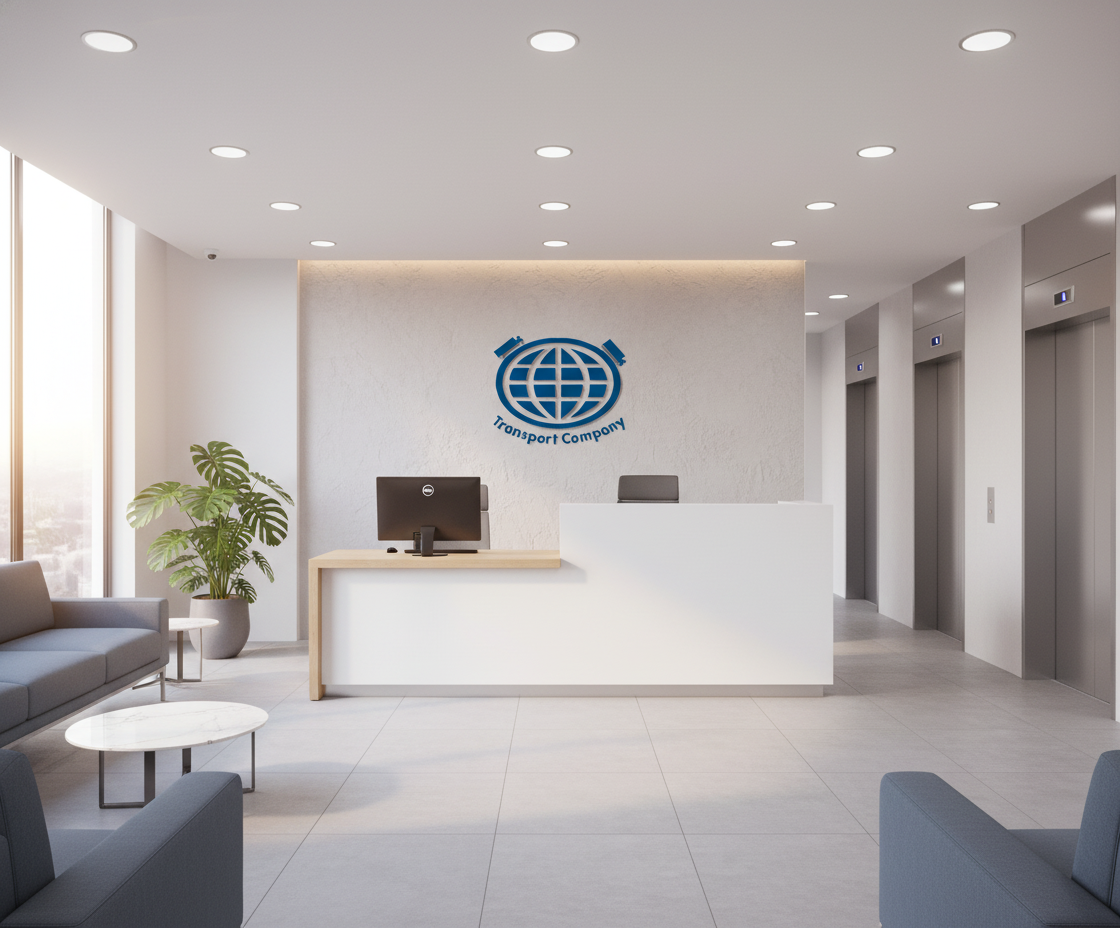
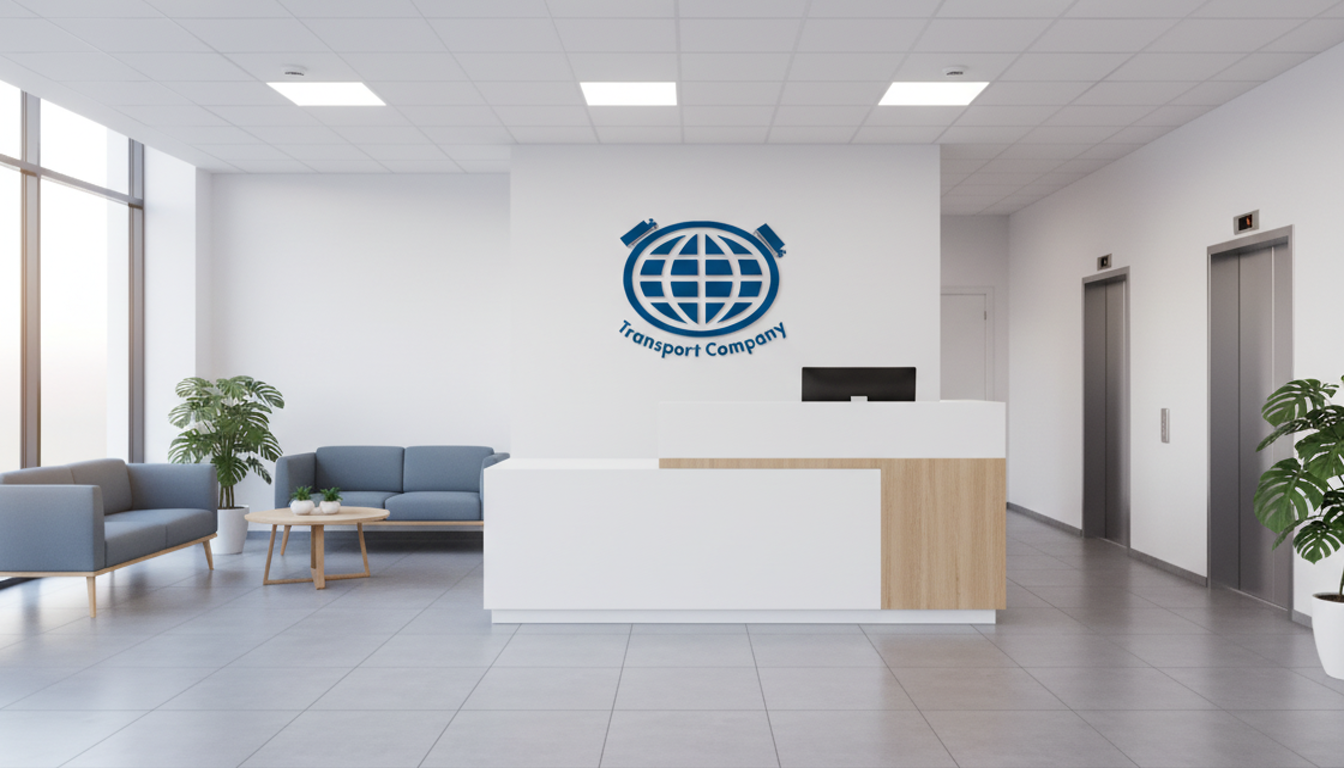
fix(lobby): 他フロアと同じ 1344x768 (16:9) に統一
- 生成画像を ffmpeg で center-crop して 1344x768 化 (gen scriptに自動化追加)
- DB: floors.lobby world_w/world_h を 1344x768 に戻す, entry_x/y も再計算
- 葵 LOBBY_BOT_POS を新アスペクトに合わせて (744, 519) へスケール変換
- LOBBY_COUNTER_TOP_Y クリップを 465 に調整
- FIG_H ロビー時を 288→240 に戻す (新アスペクトで視覚的に1.2倍維持)
- 工事中バナーの y を 720 に再配置

diff --git a/public/index.html b/public/index.html
@@ -2570,8 +2570,8 @@ function render() {
 
   // 1Fロビー (一人称視点モード) — 葵だけ受付に固定、一般ユーザーは自由に移動可
   const isLobbyView = currentFloor && currentFloor.code === 'lobby';
-  const LOBBY_BOT_POS = { x: 620, y: 575 };  // 葵: 受付カウンター背後 (5mm上+1cm右)
-  const LOBBY_COUNTER_TOP_Y = 530;            // 受付カウンター上端 (葵の見える比率を維持)
+  const LOBBY_BOT_POS = { x: 744, y: 519 };  // 葵: 受付カウンター背後 (1344×768フロアで再計算)
+  const LOBBY_COUNTER_TOP_Y = 465;            // 受付カウンター上端 (この線でクリップ)
 
   // 補間: targets → users[uid].cx/cy に近づける (ease-out、ゴール付近スナップで発振防止)
   for (const uid in targets) {
@@ -2620,7 +2620,7 @@ function render() {
       const wrapR = wrap ? wrap.getBoundingClientRect() : { left: 0, top: 0 };
       // 画面中央水平、カウンター下のフロア部分(world y≈790)に配置
       const bannerWorldX = WORLD_W / 2;
-      const bannerWorldY = 790;
+      const bannerWorldY = 720;
       const screenX = (r.left - wrapR.left) + ox + bannerWorldX * viewScale;
       const screenY = (r.top - wrapR.top) + oy + bannerWorldY * viewScale;
       cbn.style.left = screenX + 'px';
@@ -2868,8 +2868,8 @@ function drawFloorEntrance(x, y, floorCode) {
 
 // 受付AI 葵: 立ち姿描画 (大理石ロビーに合うよう透過+影+名札)
 function drawConciergeStanding(u) {
-  // ロビー時は 1.2倍 大きめ (288) でカウンターに堂々と立つ感じ、他フロア時は従来 210
-  const FIG_H = (currentFloor && currentFloor.code === 'lobby') ? 288 : 210;
+  // ロビー時は 240 (1344×768フロアでも視覚的に1.2倍相当に見える適正サイズ)、他フロア時は従来 210
+  const FIG_H = (currentFloor && currentFloor.code === 'lobby') ? 240 : 210;
   const aspect = conciergeFull.w / conciergeFull.h;
   const FIG_W = Math.round(FIG_H * aspect);
   // shake 演出
@@ -2887,7 +2887,7 @@ function drawConciergeStanding(u) {
   // 1Fロビー: 受付カウンター下端より下を非表示 (奥に立っているように見せる)
   if (currentFloor && currentFloor.code === 'lobby') {
     ctx.beginPath();
-    ctx.rect(0, 0, WORLD_W, 530);  // カウンター上端まで描画
+    ctx.rect(0, 0, WORLD_W, 465);  // カウンター上端まで描画 (1344×768用)
     ctx.clip();
   }
   // 足元の楕円影 (ロビーではクリップで自動的に隠れる)

diff --git a/server/scripts/gen_lobby_image.js b/server/scripts/gen_lobby_image.js
@@ -19,7 +19,8 @@ const prompt = `参考画像はスタンダード運輸グループ (Standard Tr
 
 【視点・構図】
 - 玄関を入って受付に向かう人間の目線(身長170cm程度の視点)
-- 横長 16:9 の写真リアル風 (1344×768 推奨、最低1024×576)
+- **必ず 16:9 横長アスペクト比** (1344×768 px、横が縦の約1.75倍) — これは絶対条件
+- 写真リアル風
 - 中央〜やや右に**白い受付カウンター**(腰高、明るい木目縁)、その奥に若い女性受付係が立つスペース
 - 受付カウンターの背後の壁に**スタンダード運輸グループのロゴ**を控えめに(壁の20〜22%サイズ)はっきり配置 ※前回より一回り小さめ
 - 左側に**待合エリア**(モダンなブルーグレーのソファ2-3席+小さな丸テーブル)
@@ -59,9 +60,21 @@ const prompt = `参考画像はスタンダード運輸グループ (Standard Tr
     if (inline && inline.data) {
       // 既存のロビー画像をバックアップ
       try { fs.copyFileSync(outPath, outPath + '.bak.' + Date.now()); } catch (e) {}
-      fs.writeFileSync(outPath, Buffer.from(inline.data, 'base64'));
-      const stats = fs.statSync(outPath);
-      console.log('✅ 生成完了:', outPath, '(' + Math.round(stats.size / 1024) + ' KB)');
+      const tmpPath = outPath + '.raw.png';
+      fs.writeFileSync(tmpPath, Buffer.from(inline.data, 'base64'));
+      console.log('生成画像保存:', tmpPath);
+      // Gemini の出力は 1120x928 等になりがちなので、他フロアと同じ 1344x768 (16:9) にクロップ&リサイズ
+      const { execSync } = require('child_process');
+      try {
+        execSync(`ffmpeg -y -i ${tmpPath} -vf "crop=in_w:in_w*9/16:0:(in_h-in_w*9/16)/2,scale=1344:768" -update 1 -frames:v 1 ${outPath}`, { stdio: 'inherit' });
+        fs.unlinkSync(tmpPath);
+        const stats = fs.statSync(outPath);
+        console.log('✅ 16:9クロップ完了:', outPath, '(' + Math.round(stats.size / 1024) + ' KB)');
+      } catch (e) {
+        // ffmpeg失敗時は素のまま使う
+        fs.renameSync(tmpPath, outPath);
+        console.warn('ffmpeg失敗、素の画像を使用:', e.message);
+      }
       return;
     } else if (p.text) {
       console.log('[Gemini text]', p.text.slice(0, 200));
